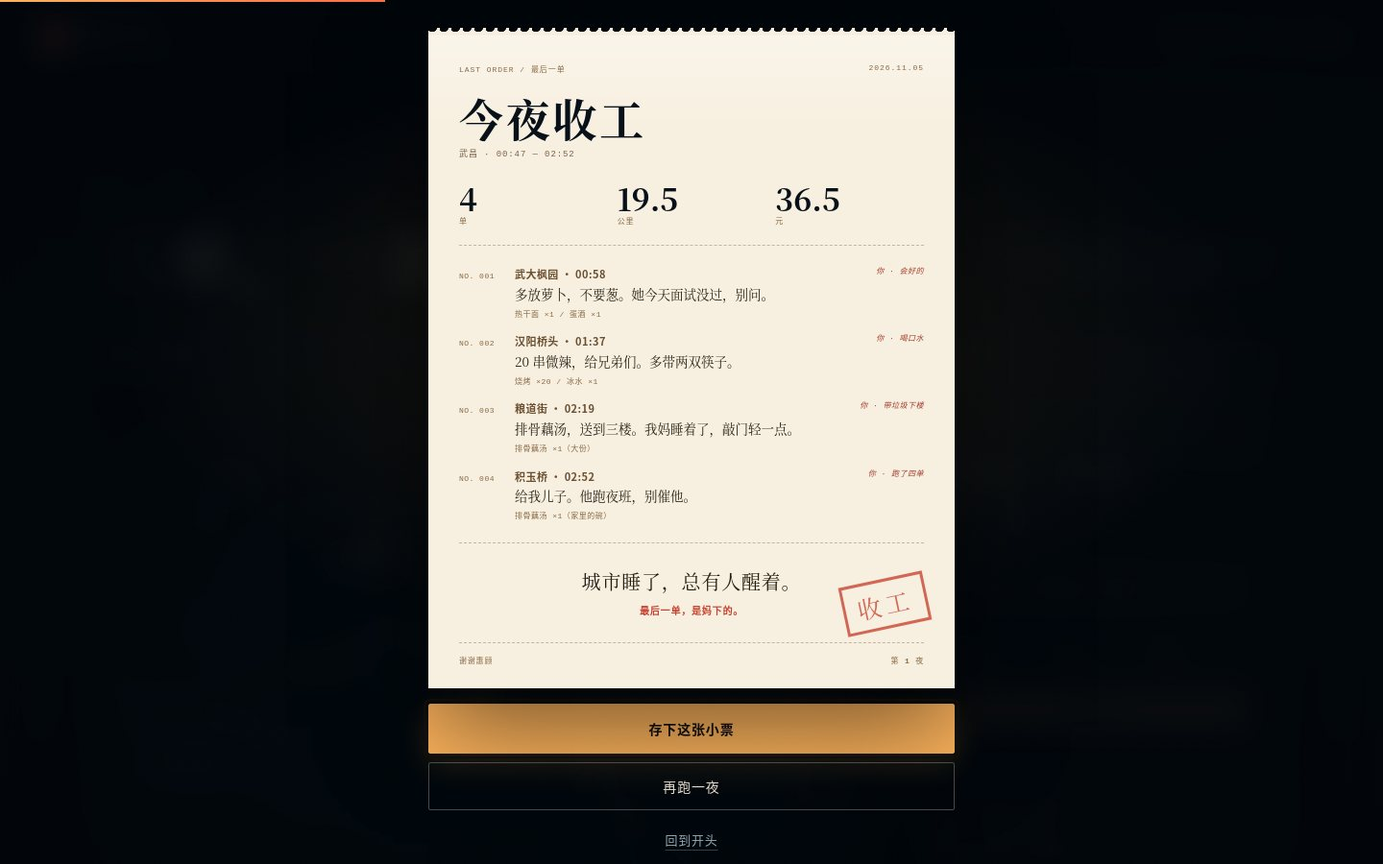
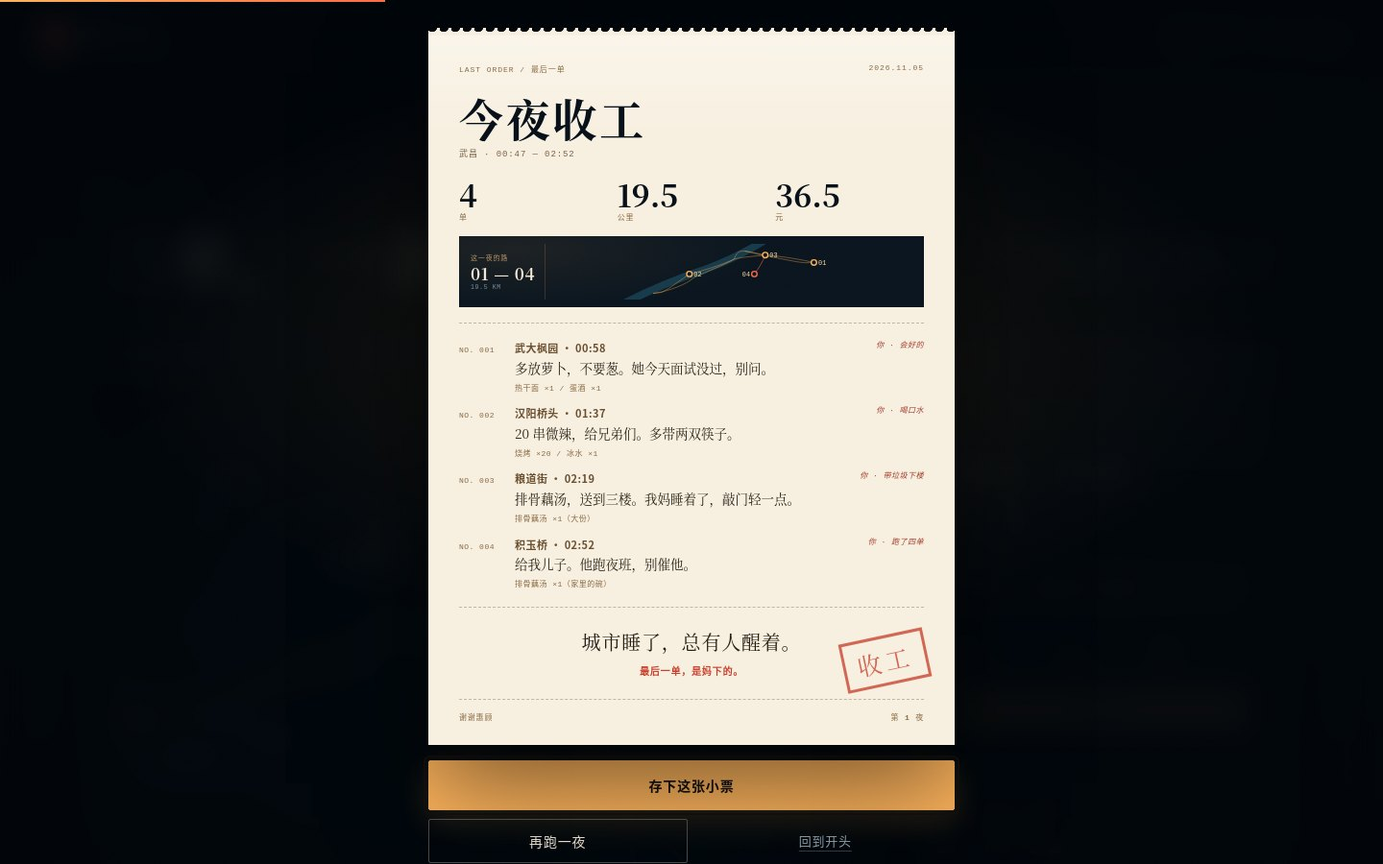
feat: 收工纸票压入今夜路网，按钮重排回一屏

Changed region(s): [[0.2812, 0.2178, 0.7188, 1.0], [0.625, 0.5289, 0.6562, 0.56], [0.625, 0.4667, 0.6562, 0.4978]]

diff --git a/assets/js/app.js b/assets/js/app.js
@@ -89,6 +89,7 @@
     sumOrders: $("#sumOrders"),
     sumDistance: $("#sumDistance"),
     sumIncome: $("#sumIncome"),
+    summaryRoute: $("#summaryRoute"),
     summaryTickets: $("#summaryTickets"),
     summaryLine: $("#summaryLine"),
     summarySubline: $("#summarySubline"),
@@ -697,6 +698,68 @@
     return line;
   }
 
+  // 把这一夜的六段路缩进纸票：与地图共用同一份路径数据，
+  // 只保留江的暗影、路线与 01–04 四盏灯，作为可带走的路网存根。
+  var MINI_RIVER = "M 40 760 C 200 660 350 590 500 540 C 650 485 760 420 850 330 C 930 250 990 140 1020 0";
+
+  function routeMapGeometry(w, h, pad) {
+    var segments = [];
+    var stops = [];
+    var points = [];
+    allOrders.forEach(function (order) {
+      var finalLeg = order.id === "o4";
+      [order.approach, order.delivery].forEach(function (d) {
+        if (!d) return;
+        segments.push({ d: d, final: finalLeg });
+        var nums = d.match(/-?\d+(?:\.\d+)?/g) || [];
+        for (var i = 0; i + 1 < nums.length; i += 2) {
+          points.push([parseFloat(nums[i]), parseFloat(nums[i + 1])]);
+        }
+      });
+      if (order.drop) {
+        stops.push({ x: order.drop.x, y: order.drop.y, no: order.no, final: finalLeg });
+      }
+    });
+
+    var minX = Infinity, minY = Infinity, maxX = -Infinity, maxY = -Infinity;
+    points.forEach(function (p) {
+      minX = Math.min(minX, p[0]);
+      minY = Math.min(minY, p[1]);
+      maxX = Math.max(maxX, p[0]);
+      maxY = Math.max(maxY, p[1]);
+    });
+    var bw = Math.max(1, maxX - minX);
+    var bh = Math.max(1, maxY - minY);
+    var scale = Math.min((w - pad * 2) / bw, (h - pad * 2) / bh);
+    var tx = (w - bw * scale) / 2 - minX * scale;
+    var ty = (h - bh * scale) / 2 - minY * scale;
+
+    stops.forEach(function (s) {
+      s.sx = tx + s.x * scale;
+      s.sy = ty + s.y * scale;
+    });
+    return { scale: scale, tx: tx, ty: ty, segments: segments, stops: stops };
+  }
+
+  function renderSummaryRoute() {
+    if (!el.summaryRoute) return;
+    var geo = routeMapGeometry(330, 64, 7);
+    var markup = '<g transform="translate(' + geo.tx.toFixed(2) + ' ' + geo.ty.toFixed(2) +
+      ') scale(' + geo.scale.toFixed(4) + ')">' +
+      '<path class="mini-river" d="' + MINI_RIVER + '"/>';
+    geo.segments.forEach(function (s) {
+      markup += '<path class="mini-route' + (s.final ? ' is-final' : '') + '" d="' + s.d + '"/>';
+    });
+    markup += '</g>';
+    geo.stops.forEach(function (s) {
+      markup += '<g class="mini-stop' + (s.final ? ' is-final' : '') + '">' +
+        '<circle cx="' + s.sx.toFixed(2) + '" cy="' + s.sy.toFixed(2) + '" r="3.1"/>' +
+        '<text x="' + (s.sx + (s.final ? -14 : 5)).toFixed(2) + '" y="' + (s.sy + 2.6).toFixed(2) + '">' +
+        s.no + '</text></g>';
+    });
+    el.summaryRoute.innerHTML = markup;
+  }
+
   function renderSummary(night) {
     el.sumOrders.textContent = DATA.summary.totalOrders;
     el.sumDistance.textContent = DATA.summary.distance;
@@ -705,6 +768,7 @@
     el.summaryLine.textContent = DATA.summary.line;
     el.summarySubline.textContent = closingLine();
     el.summarySubline.classList.add("is-personal");
+    renderSummaryRoute();
 
     el.summaryTickets.innerHTML = state.tickets.map(function (t) {
       return '<li><span class="r-no">' + escape(t.no) + '</span>' +
@@ -903,6 +967,56 @@
   }
 
   /* ---------------- 收工小票 PNG ---------------- */
+  // 把 330×64 的路网存根画进任意尺寸的暗色条带；无 Path2D 时只留底色。
+  function drawReceiptRoute(ctx, x, y, w, h) {
+    var geo = routeMapGeometry(330, 64, 7);
+    var k = Math.min(w / 330, h / 64);
+    var ox = x + (w - 330 * k) / 2;
+    var oy = y + (h - 64 * k) / 2;
+
+    ctx.save();
+    ctx.beginPath();
+    ctx.rect(x, y, w, h);
+    ctx.clip();
+    ctx.fillStyle = "#0a151f";
+    ctx.fillRect(x, y, w, h);
+
+    if (window.Path2D) {
+      ctx.save();
+      ctx.translate(ox, oy);
+      ctx.scale(k, k);
+      ctx.translate(geo.tx, geo.ty);
+      ctx.scale(geo.scale, geo.scale);
+      ctx.lineCap = "round";
+      ctx.strokeStyle = "#173b4b";
+      ctx.lineWidth = 26;
+      ctx.stroke(new Path2D(MINI_RIVER));
+      geo.segments.forEach(function (s) {
+        ctx.strokeStyle = s.final ? "rgba(255,107,69,.82)" : "rgba(255,180,92,.58)";
+        ctx.lineWidth = 2.2;
+        ctx.stroke(new Path2D(s.d));
+      });
+      ctx.restore();
+    }
+
+    geo.stops.forEach(function (s) {
+      var sx = ox + s.sx * k;
+      var sy = oy + s.sy * k;
+      ctx.beginPath();
+      ctx.arc(sx, sy, 3.4, 0, Math.PI * 2);
+      ctx.fillStyle = "#0a151f";
+      ctx.fill();
+      ctx.strokeStyle = s.final ? "#ff6b45" : "#ffb45c";
+      ctx.lineWidth = 1.4;
+      ctx.stroke();
+      ctx.fillStyle = "#ffd9a8";
+      ctx.font = '9px "SFMono-Regular", Consolas, monospace';
+      ctx.textAlign = "left";
+      ctx.fillText(s.no, sx + (s.final ? -17 : 6), sy + 3);
+    });
+    ctx.restore();
+  }
+
   function saveReceiptImage() {
     if (!state.tickets.length) return;
     var W = 760;
@@ -956,15 +1070,28 @@
       ctx.fillText(s[1], x, 288);
     });
 
+    // 小票上的路网存根：和页面里的 mini map 共用同一份路径数据。
+    ctx.fillStyle = "#8a6a45";
+    ctx.font = '9px "SFMono-Regular", Consolas, monospace';
+    ctx.textAlign = "left";
+    ctx.fillText("这一夜的路 / 01 — 04", 50, 322);
+    ctx.textAlign = "right";
+    ctx.fillText(DATA.summary.distance + " 公里", W - 50, 322);
+    ctx.textAlign = "left";
+    drawReceiptRoute(ctx, 48, 334, W - 96, 90);
+    ctx.fillStyle = "#8a6a45";
+    ctx.font = '9px "SFMono-Regular", Consolas, monospace';
+    ctx.fillText("每一单都从取餐点出发，最后一段回到自己家。", 50, 440);
+
     ctx.strokeStyle = "rgba(70,48,25,.3)";
     ctx.setLineDash([6, 6]);
     ctx.beginPath();
-    ctx.moveTo(50, 326);
-    ctx.lineTo(W - 50, 326);
+    ctx.moveTo(50, 460);
+    ctx.lineTo(W - 50, 460);
     ctx.stroke();
     ctx.setLineDash([]);
 
-    var cursor = 366;
+    var cursor = 498;
     state.tickets.forEach(function (t) {
       ctx.fillStyle = "#6a4e30";
       ctx.font = '600 12px "Noto Sans CJK SC", "PingFang SC", sans-serif';

diff --git a/assets/css/main.css b/assets/css/main.css
@@ -1432,12 +1432,44 @@ html.is-locked, html.is-locked body { overflow: hidden; }
   color: var(--ink);
 }
 .receipt-sub { margin-top: 8px; font-family: var(--mono); font-size: 9px; letter-spacing: .1em; color: #7a6248; }
-.receipt-stats { display: grid; grid-template-columns: repeat(3, 1fr); gap: 10px; margin-top: 24px; }
+.receipt-stats { display: grid; grid-template-columns: repeat(3, 1fr); gap: 10px; margin-top: 20px; }
 .receipt-stats div { display: flex; flex-direction: column; gap: 2px; }
 .receipt-stats b { font-family: var(--serif); font-size: 32px; font-weight: 700; line-height: 1; color: var(--ink); }
 .receipt-stats span { font-family: var(--mono); font-size: 8px; letter-spacing: .12em; color: #8a6a45; }
-.receipt-divider { margin: 20px 0; border-top: 1px dashed rgba(70, 48, 25, .3); }
-.receipt-list { display: flex; flex-direction: column; gap: 12px; }
+
+/* 纸票上的地图存根：把这一夜的六段路与 01–04 缩进小票，
+   在暗底上只用暖线，和纸面形成一次「夜 / 纸」的对照。 */
+.receipt-route {
+  display: grid;
+  grid-template-columns: 78px minmax(0, 1fr);
+  gap: 8px;
+  margin-top: 15px;
+  padding: 8px 10px 8px 12px;
+  background:
+    radial-gradient(90% 140% at 12% 20%, rgba(255, 180, 92, .08), transparent 60%),
+    #0a151f;
+}
+.receipt-route-meta {
+  display: flex;
+  flex-direction: column;
+  justify-content: center;
+  gap: 3px;
+  padding-right: 8px;
+  border-right: 1px solid rgba(255, 180, 92, .18);
+}
+.receipt-route-meta span { font-family: var(--mono); font-size: 7px; letter-spacing: .12em; color: #b5926a; }
+.receipt-route-meta b { font-family: var(--serif); font-size: 17px; font-weight: 700; line-height: 1; letter-spacing: .04em; color: #f3e9d7; white-space: nowrap; }
+.receipt-route-meta i { font-style: normal; font-family: var(--mono); font-size: 6.5px; letter-spacing: .1em; color: #73909f; }
+.receipt-route-map { display: block; width: 100%; height: 58px; }
+.receipt-route .mini-river { fill: none; stroke: #173b4b; stroke-width: 26; }
+.receipt-route .mini-route { fill: none; stroke: rgba(255, 180, 92, .58); stroke-width: 2.2; stroke-linecap: round; }
+.receipt-route .mini-route.is-final { stroke: rgba(255, 107, 69, .82); }
+.receipt-route .mini-stop circle { fill: #0a151f; stroke: #ffb45c; stroke-width: 1.5; }
+.receipt-route .mini-stop.is-final circle { stroke: #ff6b45; }
+.receipt-route .mini-stop text { fill: #ffd9a8; font-family: var(--mono); font-size: 7.5px; letter-spacing: .02em; }
+
+.receipt-divider { margin: 16px 0; border-top: 1px dashed rgba(70, 48, 25, .3); }
+.receipt-list { display: flex; flex-direction: column; gap: 10px; }
 .receipt-list li { display: grid; grid-template-columns: 48px 1fr; gap: 10px; align-items: baseline; }
 .receipt-list .r-no { font-family: var(--mono); font-size: 8px; letter-spacing: .06em; color: #8a6a45; white-space: nowrap; }
 .receipt-list .r-body { font-family: var(--serif); font-size: 13.5px; line-height: 1.7; color: #2a2118; }
@@ -1452,7 +1484,7 @@ html.is-locked, html.is-locked body { overflow: hidden; }
 }
 .receipt-list .r-body span { display: block; margin-top: 3px; font-family: var(--mono); font-size: 8px; letter-spacing: .06em; color: #8a6a45; }
 .receipt-line {
-  margin-top: 24px;
+  margin-top: 20px;
   font-family: var(--serif);
   font-size: 20px;
   line-height: 1.6;
@@ -1475,12 +1507,18 @@ html.is-locked, html.is-locked body { overflow: hidden; }
   transform: rotate(-12deg);
   opacity: .78;
 }
-.receipt-foot { display: flex; justify-content: space-between; gap: 12px; margin-top: 26px; padding-top: 12px; border-top: 1px dashed rgba(70, 48, 25, .3); font-family: var(--mono); font-size: 8px; letter-spacing: .1em; color: #8a6a45; }
+.receipt-foot { display: flex; justify-content: space-between; gap: 12px; margin-top: 22px; padding-top: 12px; border-top: 1px dashed rgba(70, 48, 25, .3); font-family: var(--mono); font-size: 8px; letter-spacing: .1em; color: #8a6a45; }
 .summary-actions { display: flex; flex-direction: column; gap: 9px; margin-top: 16px; }
 .summary-actions .btn { width: 100%; }
 .summary-actions .btn-primary { min-height: 52px; }
 .summary-actions .btn-ghost { border-color: rgba(243, 233, 215, .3); }
 .summary-hint { margin-top: 12px; font-family: var(--mono); font-size: 8px; letter-spacing: .08em; color: rgba(147, 166, 178, .55); text-align: center; }
+/* 收工层主操作独占一行，两个次操作并排：三颗按钮都在一屏内，不把「回到开头」挤下去。 */
+@media (min-width: 721px) {
+  .summary-actions { display: grid; grid-template-columns: 1fr 1fr; }
+  .summary-actions .btn-primary { grid-column: 1 / -1; }
+  .summary-actions .btn-ghost, .summary-actions .btn-text { min-height: 46px; }
+}
 
 /* ---------- 滚动入场 ---------- */
 .js-reveal { opacity: 0; transform: translateY(20px); transition: opacity .85s var(--ease), transform .85s var(--ease); }
@@ -1631,6 +1669,9 @@ html.is-locked, html.is-locked body { overflow: hidden; }
   .summary-shell { width: 100%; }
   .receipt { padding: 26px 22px 22px; }
   .receipt h2 { font-size: 40px; }
+  .receipt-route { grid-template-columns: 66px minmax(0, 1fr); padding: 7px 8px; }
+  .receipt-route-map { height: 52px; }
+  .receipt-route-meta b { font-size: 13px; letter-spacing: 0; }
   .receipt-stamp { right: 18px; bottom: 58px; font-size: 21px; }
   .receipt-line { font-size: 18px; }
 }

diff --git a/index.html b/index.html
@@ -671,6 +671,14 @@
           <div><b id="sumDistance">19.5</b><span>公里</span></div>
           <div><b id="sumIncome">36.5</b><span>元</span></div>
         </div>
+        <div class="receipt-route" aria-hidden="true">
+          <div class="receipt-route-meta">
+            <span>这一夜的路</span>
+            <b>01 — 04</b>
+            <i>19.5 KM</i>
+          </div>
+          <svg class="receipt-route-map" id="summaryRoute" viewBox="0 0 330 64"></svg>
+        </div>
         <div class="receipt-divider" aria-hidden="true"></div>
         <ol class="receipt-list" id="summaryTickets"></ol>
         <div class="receipt-divider" aria-hidden="true"></div>

diff --git a/STATE.md b/STATE.md
@@ -67,6 +67,8 @@
 - [x] 顶栏成为夜班状态条：时间 00:47→02:52、电量 23%→9%、四格进度随送达点亮，纸色区转朱红；刷新后停在上一夜收工状态（第 27 轮）
 - [x] 走过的路留在图上：每单轨迹压暗累积，送达点按 01–04 编号亮起；再跑一夜清空（第 28 轮）
 - [x] 刷新后从存档复原上一夜 6 段路网与 01–04 送达点；地图时钟、接单面板与 LIVE/ARCHIVE 标签同步到 02:52 收工态，回归锁定（第 29 轮）
+- [x] 收工纸票与 Canvas PNG 压入「这一夜的路」存根：6 段路、江影、01–04，与地图同源（第 30 轮）
+- [x] 收工三颗按钮重排：主操作独占一行，两个次操作并排，1440×900 全部留在首屏（第 30 轮）
 - [ ] 真实手机 / 真实 Chrome 129 走查
 - [x] `scripts/pack.sh` 实跑：完整版含 progress，匿名版无占位符/个人信息，两个 zip 可直接打开
 - [ ] 可选：分享文案 / URL 还原 / 环境声（默认关闭）
@@ -111,11 +113,13 @@
 | 11-05 | 顶栏从静态「武昌 00:47」改为实时夜班状态 | 跑完整夜后顶栏仍停在起点，和地图 / 小票的时间互相矛盾；让时间、电量、四格进度一起走，刷新时停在第 1 夜收工态，开场时回到 00:47 |
 | 11-05 | 每单送达后把轨迹留在 `#mapTrail`，送达点编号 | 「地图上的订单一个个亮起来」此前只发生在当前一单，接下一单就清空；轨迹累积后，跑到第三单能看见前两单的路，地图真正成为这一夜的记录；只清空于「再跑一夜」 |
 | 11-06 | 刷新后从 `store.last.tickets` 复原上一夜路网，并同步地图收工态 | 此前刷新后小票与顶栏都停在收工态，唯独地图空白、面板还写「待接单 / 00:47」，互相矛盾；复原后「地图记得这一夜」才成立，点「再跑一夜」时才清空 |
+| 11-06 | 收工纸票与 PNG 增加路网存根 | 地图记忆此前只留在屏幕内；把同一份路径缩进纸票后，可保存、可分享的 PNG 也带着这一夜走过的路，纸面与地图真正合拢。路网用 330×64 逻辑坐标适配 DOM 与 Canvas，不新增图片资源 |
+| 11-06 | 收工动作改为主操作通栏 + 两个次操作并排 | 纸票增高后三颗堆叠按钮会把「回到开头」挤出 900px 视口；并排后三颗都可见，主次层级也更清楚 |
 
 ## 七、当前阶段 & 下一步
 
-**可上线状态**：目录即站点，`index.html` 直接打开可玩，push 即部署。第 19 轮完成完全重构，第 20 轮完成打包实跑与收工小票背景光，第 21 轮补齐第一段场景的两人共伞，第 22 轮补齐后三段场景细部并把四段场景截图纳入回归，第 23 轮补 1440×720 矮横屏首屏断点并实拍复核 390 场景，第 24 轮给地图补指北针与比例尺中刻度并把两者纳入回归，第 25 轮把每单的选择写进场景小票、存档小票、收工纸票与 PNG，并修掉纸面锚点的顶栏配色与暗缝；第 26 轮让第四单门口的选择决定纸票落款（「最后一单，是妈下的。」/「最后一单，是回家。」），Canvas PNG 同步。第 27 轮把顶栏做成实时夜班状态。第 28 轮让走过的路留在地图上。第 29 轮补上刷新后的记忆：从 `localStorage` 复原上一夜 6 段路网与 01–04 送达点，地图时钟、接单面板、LIVE/ARCHIVE 标签与夜班日志一起切到 02:52 收工态；点「再跑一夜」才清空旧路网。`node scripts/regression.mjs` 在 1920 / 1440 / 720 / 390 全部通过，1440 与 390 各跑完整一夜，1440×720 另跑首屏断言。
+**可上线状态**：目录即站点，`index.html` 直接打开可玩，push 即部署。第 19 轮完成完全重构，第 20 轮完成打包实跑与收工小票背景光，第 21 轮补齐第一段场景的两人共伞，第 22 轮补齐后三段场景细部并把四段场景截图纳入回归，第 23 轮补 1440×720 矮横屏首屏断点并实拍复核 390 场景，第 24 轮给地图补指北针与比例尺中刻度并把两者纳入回归，第 25 轮把每单的选择写进场景小票、存档小票、收工纸票与 PNG，并修掉纸面锚点的顶栏配色与暗缝；第 26 轮让第四单门口的选择决定纸票落款（「最后一单，是妈下的。」/「最后一单，是回家。」），Canvas PNG 同步。第 27 轮把顶栏做成实时夜班状态。第 28 轮让走过的路留在地图上。第 29 轮补上刷新后的记忆：从 `localStorage` 复原上一夜 6 段路网与 01–04 送达点，地图时钟、接单面板、LIVE/ARCHIVE 标签与夜班日志一起切到 02:52 收工态；点「再跑一夜」才清空旧路网。第 30 轮把同一份路网缩进收工纸票与 Canvas PNG，并把收工动作重排为一颗主操作 + 两颗并排次操作；1440 与 390 回归均通过，纸票上的 6 段路 / 4 个点与三颗按钮在首屏内都有断言。`node scripts/regression.mjs` 在 1920 / 1440 / 720 / 390 全部通过，1440 与 390 各跑完整一夜，1440×720 另跑首屏断言。
 
-**下一步**：① 真实 Chrome 129 + 真实手机走查并记录；② 可选：分享文案 / URL 还原 / 环境声默认关闭；③ 可选：第二夜换一组订单，让「再跑一夜」有内容上的差别；④ 收工小票可加一张「这一夜的路网」缩略图，把地图记忆也带进可分享的 PNG。
+**下一步**：① 真实 Chrome 129 + 真实手机走查并记录；② 可选：分享文案 / URL 还原 / 环境声默认关闭；③ 可选：第二夜换一组订单，让「再跑一夜」有内容上的差别；④ 路网存根可加取餐 / 送达图例或比例尺，但需先确认不把小票撑高。
 
 > 旧版《等一碗》的完整实现保留在 git 历史中；当前工作树只保留新版。

diff --git a/README.md b/README.md
@@ -77,7 +77,7 @@
 - **接单**：每单显示取餐点、送达点、距离、配送费与顾客留言；点「接单 · 出发」后，地图自动缩放到这一单的路线，顶栏时间与电量同步推进。
 - **骑行**：路线按长度绘制，电动车沿路径移动；经过取餐点会停一下、弹出「取餐完成」，再继续送到门口。可以点「跳过骑行」。走过的路不会消失：每送达一单，轨迹压暗留在图上，送达点按 01–04 编号亮起；跑完一夜，地图就是这一夜的路网。刷新页面后，上一夜的路网仍留在地图上；点「再跑一夜」才清空。
 - **门口**：四段场景，每段两个选择。选择改变收尾的一句话，并把「你 · 会好的」这样一行留在小票上；不改变订单结果。每单留下一张顾客留言小票。四段插画各有可读的细部：雨里共伞的两个人、桥下烧烤袋的热气、只开一条缝的门与门口的垃圾袋、妈妈手里的汤勺和早摆好的第二副碗筷。最后一单门口的选择还会改写纸票的落款。
-- **收工**：四单之后自动生成一张「今夜收工」纸票，统计 4 单 / 19.5 公里 / 36.5 元，列出四张留言与四次选择；落款由最后一次选择决定——「最后一单，是妈下的。」或「最后一单，是回家。」可以「存下这张小票」为 PNG（选择与落款一起画进去）。
+- **收工**：四单之后自动生成一张「今夜收工」纸票，统计 4 单 / 19.5 公里 / 36.5 元，列出四张留言与四次选择；落款由最后一次选择决定——「最后一单，是妈下的。」或「最后一单，是回家。」纸票上压着一枚暗色路网存根：六段路与 01–04 四个点，和地图共用同一份路径数据；可以「存下这张小票」为 PNG（选择、落款与路网一起画进去）。
 - **记住**：完成的一夜写入 `localStorage`（键：`lastorder.v1`），记录夜数、四张留言、每单的选择与这一夜的结局；刷新后「今夜的小票」仍带着你当时留下的那一行，地图也停在 02:52 的收工路网。
 - **再跑一夜**：回到第一单，清空地图上的旧路网；小票重新盖上「未送达」，上一夜仍留在浏览器里。
 
@@ -105,18 +105,18 @@ python3 -m http.server 8080 &
 node scripts/regression.mjs
 ```
 
-脚本会检查 1920 / 1440 / 720 / 390 四档的横向溢出，在 1440 与 390 各跑完一整夜（接单 → 跳过骑行 → 场景 → 二选一 → 小票 → 回家加单 → 收工小票 → 再跑一夜），断言地图面板、场景层、小票上的选择、轨迹累积与 01–04 送达点、顶栏时间 / 电量 / 四格进度、刷新后的存档路网与收工态、localStorage 与控制台；另跑 1440×720 矮横屏首屏断言，并复核锚点落到纸面时顶栏切换纸色。截图输出到 `/tmp/lastorder-shots`。若 Chrome 不在常见路径，用 `CHROME=/path/to/chrome node scripts/regression.mjs` 指定；只跑移动端可加 `ONLY=mobile`，只跑桌面完整一夜可加 `ONLY=desktop`。
+脚本会检查 1920 / 1440 / 720 / 390 四档的横向溢出，在 1440 与 390 各跑完一整夜（接单 → 跳过骑行 → 场景 → 二选一 → 小票 → 回家加单 → 收工小票 → 再跑一夜），断言地图面板、场景层、小票上的选择、轨迹累积与 01–04 送达点、收工纸票上的 6 段路网存根与三颗按钮在首屏内、顶栏时间 / 电量 / 四格进度、刷新后的存档路网与收工态、localStorage 与控制台；另跑 1440×720 矮横屏首屏断言，并复核锚点落到纸面时顶栏切换纸色。截图输出到 `/tmp/lastorder-shots`。若 Chrome 不在常见路径，用 `CHROME=/path/to/chrome node scripts/regression.mjs` 指定；只跑移动端可加 `ONLY=mobile`，只跑桌面完整一夜可加 `ONLY=desktop`。
 
 ### 体积预算
 
-站点只有 4 个文本文件，合计约 166KB（gzip 后约 42KB），首屏 0 张图片、0 个外部字体、0 个第三方脚本：
+站点只有 4 个文本文件，合计约 178KB（gzip 后约 44KB），首屏 0 张图片、0 个外部字体、0 个第三方脚本：
 
 | 资源 | 原始 | gzip |
 |---|---|---|
-| `index.html` | 65.3KB | 16.4KB |
-| `assets/css/main.css` | 50.2KB | 10.9KB |
-| `assets/js/app.js` | 42.5KB | 11.4KB |
-| `assets/js/data.js` | 8.3KB | 3.1KB |
+| `index.html` | 67.2KB | 16.7KB |
+| `assets/css/main.css` | 53.6KB | 11.7KB |
+| `assets/js/app.js` | 48.2KB | 13.1KB |
+| `assets/js/data.js` | 8.5KB | 3.2KB |
 
 `docs/screenshots/` 只用于文档展示，不参与页面加载。慢网/离线时打开也只请求这 4 个文件。
 

diff --git a/docs/design.md b/docs/design.md
@@ -66,7 +66,7 @@
 2. **骑行**：地图自动缩放到当前路线（取餐点 + 送达点的包围盒）；路线按实际路径长度绘制，电动车用 `getPointAtLength` 沿路径移动；经过取餐点停一下、弹「取餐完成」，再继续到门口。可以点「跳过骑行」。
 3. **门口**：场景浮层给出地点、时间、天气、叙述、顾客的一句话和两个选择。选择不改变订单结果，只改变收尾的一句话，并把选中的动作压缩成「你 · 会好的」这样一行写进小票；最后一单门口的选择还会决定纸票的落款。收下这一单的顾客留言小票。
 4. **回家加单**：三单送完后，订单面板出现「粮道街 → 积玉桥」的加单，顾客是妈妈。送完打开收工小票。
-5. **收工**：纸票统计 4 单 / 19.5 公里 / 36.5 元，列出四张留言与四次选择，落款由最后一次选择决定（「最后一单，是妈下的。」/「最后一单，是回家。」）；「存下这张小票」用 Canvas 2D 重绘 760×1240 PNG；「再跑一夜」回到第一单。
+5. **收工**：纸票统计 4 单 / 19.5 公里 / 36.5 元，列出四张留言与四次选择，落款由最后一次选择决定（「最后一单，是妈下的。」/「最后一单，是回家。」）；「存下这张小票」用 Canvas 2D 重绘 760×1240 PNG；「再跑一夜」回到第一单。纸票上还压着一枚暗色路网存根：六段路、一条江影与 01–04 四盏灯，和地图共用同一份路径数据，PNG 同步画入，让可分享的纸票也带着这一夜走过的路。
 
 ### 地图
 
@@ -89,7 +89,7 @@
 
 ### 收工小票
 
-- HTML 纸票是页面内的视觉；每段留言的右上角以小字记下「你 · …」，让收工小票同时是顾客的话与骑手自己的话；最后一行是朱红落款，由第四单门口的选择决定——说出「跑了四单」是「最后一单，是妈下的。」，默默端汤上桌是「最后一单，是回家。」。「存下这张小票」用 Canvas 2D 重绘一张 760×1240、2x 的 PNG（纸纹、统计、四段留言、四次选择、落款、印章、夜数），不依赖第三方库。中文按字符测量换行，避免长留言溢出。
+- HTML 纸票是页面内的视觉；每段留言的右上角以小字记下「你 · …」，让收工小票同时是顾客的话与骑手自己的话；最后一行是朱红落款，由第四单门口的选择决定——说出「跑了四单」是「最后一单，是妈下的。」，默默端汤上桌是「最后一单，是回家。」。「存下这张小票」用 Canvas 2D 重绘一张 760×1240、2x 的 PNG（纸纹、统计、路网存根、四段留言、四次选择、落款、印章、夜数），不依赖第三方库。中文按字符测量换行，避免长留言溢出。
 - `localStorage` 键：`lastorder.v1`；写入 `{ nights, last: { date, tickets, choices, stats } }`，每张 ticket 带 `choice` 短标签。读取时校验数组与字段，旧数据没有 `choice` 时只是少一行，不报错；`file://` 下写入失败也不影响当前这一夜。
 - 「再跑一夜」保留已完成的夜数与上一夜小票，当前这一夜重新开始；刷新后，上一夜仍在「今夜的小票」里，地图时钟、接单面板与 LIVE / ARCHIVE 标签同步切到 02:52 的收工态。
 
@@ -115,7 +115,7 @@
 - **地图**：SVG `getBBox()` / `getPointAtLength()` / `requestAnimationFrame`；没有地图库、没有 Canvas 地图。
 - **存档**：`localStorage`；读取时校验，写入失败静默降级。
 - **导出**：Canvas 2D 手绘小票，`toBlob` 下载；无第三方库。
-- **性能**：首屏无图片、无外部字体、无第三方脚本；全部图形内联 SVG；站点 4 个文本文件约 166KB，gzip 约 42KB；动效不阻塞首屏；`defer` 加载脚本。
+- **性能**：首屏无图片、无外部字体、无第三方脚本；全部图形内联 SVG；站点 4 个文本文件约 178KB，gzip 约 44KB；动效不阻塞首屏；`defer` 加载脚本。
 - **兼容**：Chrome 129；使用 `clamp`、`svh`、`text-wrap: balance`、`backdrop-filter`、`getPointAtLength` 等稳定特性；无 ES module，`file://` 可打开。
 
 ## 8. 适配策略

diff --git a/BACKLOG.md b/BACKLOG.md
@@ -32,6 +32,8 @@
 - [x] 收工纸票落款随第四单选择改变，PNG 同步（第 26 轮）
 - [x] 顶栏实时夜班状态：时间 / 电量 / 四格进度，纸色区转朱红，刷新停在上夜收工态（第 27 轮）
 - [x] 刷新后地图复原上一夜路网，LIVE → ARCHIVE，面板与地图时钟切到 02:52（第 29 轮）
+- [x] 收工纸票 + Canvas PNG 的路网存根：6 段路、江影、01–04（第 30 轮）
+- [x] 收工三颗按钮重排，1440×900 首屏内全部可见（第 30 轮）
 - [x] 走过的路留在图上：轨迹压暗累积，送达点 01–04 编号亮起（第 28 轮）
 - [x] 纸面锚点顶栏切纸色，收掉 20px 暗缝（第 25 轮）
 
@@ -47,6 +49,7 @@
 - [x] 存 PNG、localStorage、再跑一夜
 - [x] 390 地图面板、接单按钮、场景层、收工小票均不越界
 - [x] 刷新后从存档还原上一夜的路网，并同步地图 / 面板 / 时段标签的收工态（第 29 轮）
+- [x] 收工小票与 PNG 画入同一份路网，DOM 与 Canvas 共用几何计算（第 30 轮）
 - [ ] 可选：分享文案 / URL 参数还原一夜
 - [ ] 可选：第二夜的不同订单（当前固定四单）
 
@@ -66,6 +69,7 @@
 - [x] 轨迹累积、01–04 送达点、再跑一夜清空断言（第 28 轮）
 - [x] 刷新后 6 段存档路网 + 01–04 送达点复原、收工态同步断言（第 29 轮）
 - [ ] 真实 Chrome 129 / 真实手机走查
+- [x] 收工纸票路网存根与按钮首屏断言（第 30 轮）
 - [x] 981–1100px 窄桌面顶栏三组占位实拍复核（981 / 1000px 不重叠）
 - [ ] Safari / Firefox 非目标兼容性记录
 

diff --git a/progress/2026-11-06.md b/progress/2026-11-06.md
@@ -5,3 +5,12 @@
 - 交互：刷新后接受上一夜的存档视图；点「再跑一夜」才清空路网并回到第一单。
 - 验证：`ONLY=desktop node scripts/regression.mjs` 全通过，新增刷新路网 / 收工态 / 重新上线三条断言；1440 实拍复核存档地图。
 - 遗留：尚未在真实 Chrome 129 与真机上走查；第二夜仍是同一组订单。
+
+
+# 2026-11-06 · 第 30 轮
+
+- 目标：把地图记忆带进收工纸票与可分享的 PNG，同时收住纸票增高后的按钮溢出。
+- 做了什么：新增 `routeMapGeometry()` / `renderSummaryRoute()` / `drawReceiptRoute()`，用同一份订单路径画 6 段路、江影与 01–04 四盏灯；纸票增加暗色路网存根，PNG 同步。
+- 版式：收工动作改为主操作通栏 + 「再跑一夜 / 回到开头」并排，1440×900 三颗按钮全部可见（底 899）。
+- 验证：`ONLY=desktop`、`ONLY=mobile` 全通过；新增「6 段路 / 4 个点」与「三颗按钮在首屏内」断言；1440 与 390 实拍复核。
+- 遗留：真实 Chrome 129 / 真机仍未走查；第二夜仍是同一组订单。
